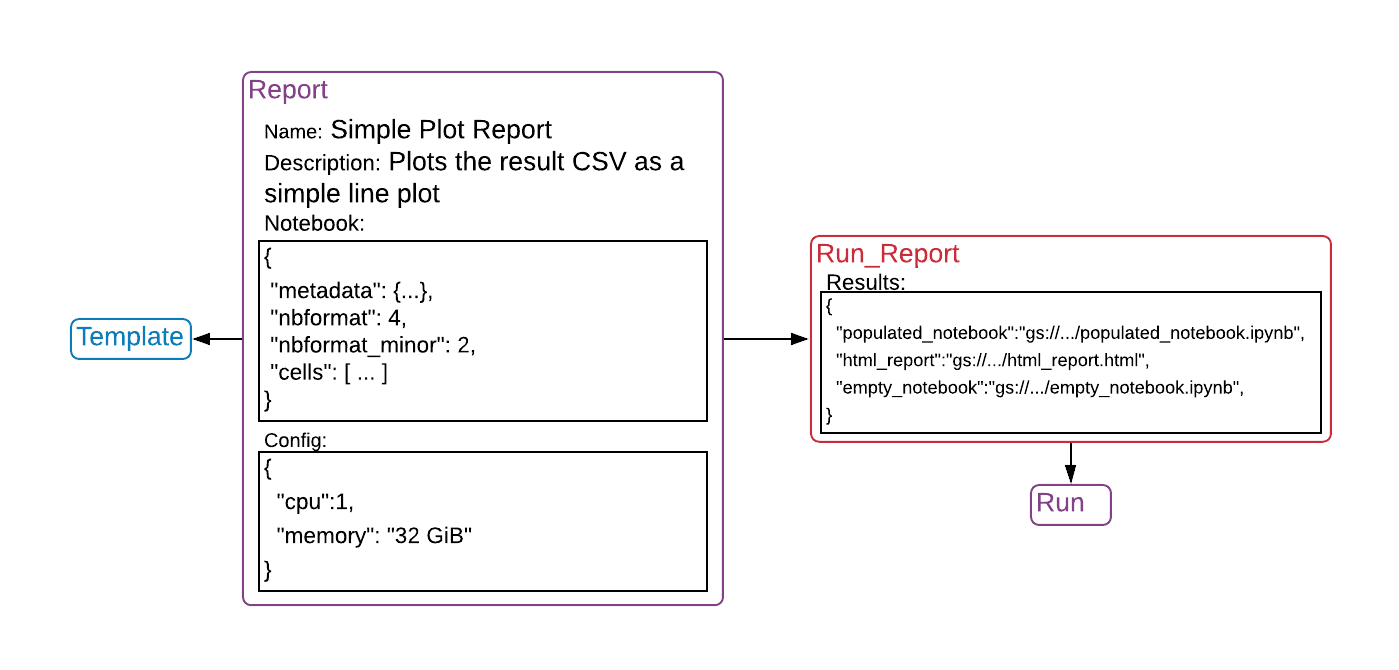
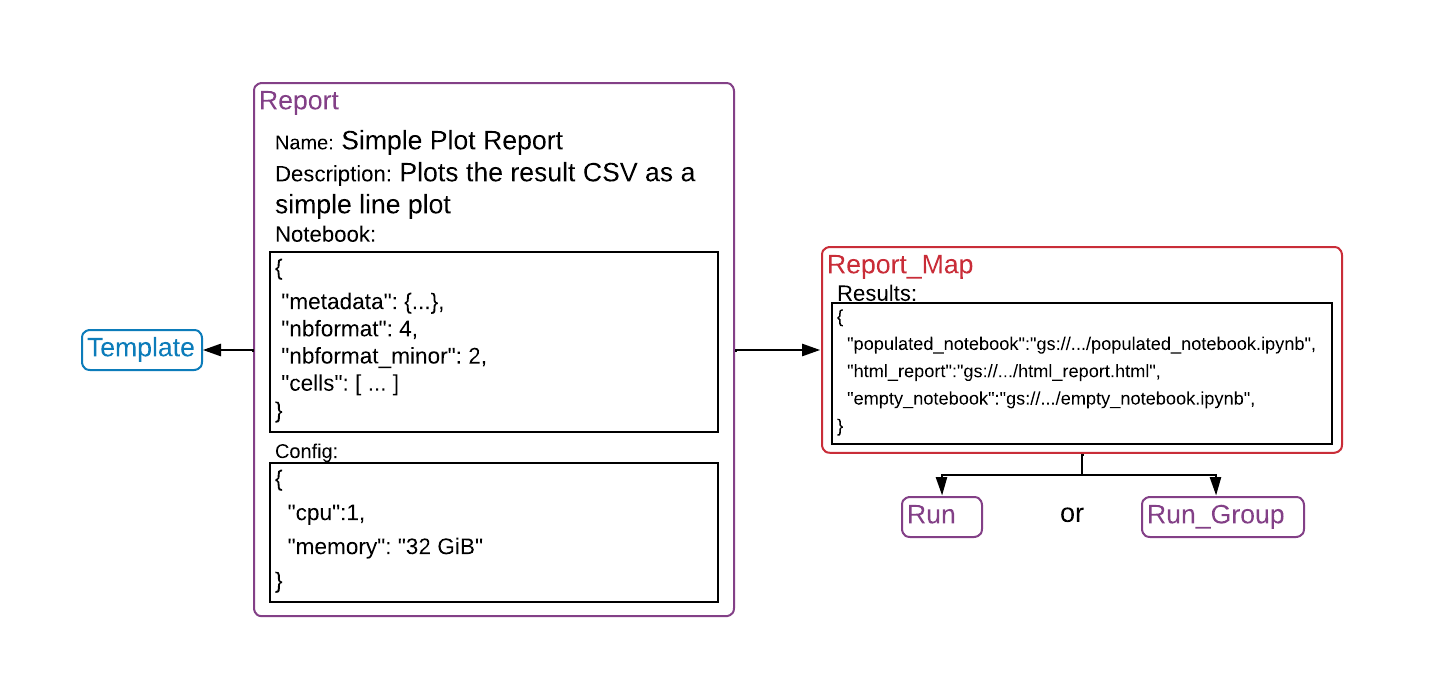
Version number and documentation updates for release 0.6.0 (#249)

Changed region(s): [[0.0307, 0.0896, 0.5225, 0.8955], [0.5533, 0.3284, 0.9528, 0.806]]

diff --git a/carrot_cli/setup.py b/carrot_cli/setup.py
@@ -4,7 +4,7 @@ from setuptools import find_packages, setup
 
 # following src dir layout according to
 # https://blog.ionelmc.ro/2014/05/25/python-packaging/#the-structure
-version = "0.5.1"
+version = "0.6.0"
 setup(
     name="carrot_cli",
     version=version,

diff --git a/carrot_cli/src/carrot_cli/__main__.py b/carrot_cli/src/carrot_cli/__main__.py
@@ -17,7 +17,7 @@ from .test import command as test
 
 # Version number is automatically set via bumpversion.
 # DO NOT MODIFY:
-__version = "0.5.1"
+__version = "0.6.0"
 
 # Create a logger for this module:
 LOGGER = logging.getLogger(__name__)

diff --git a/UserGuide.md b/UserGuide.md
@@ -5,7 +5,7 @@
 ## Cromwell Automated Runner for Regression and Optimization Testing (CARROT) User Guide
 
 
-### _v0.5.1_
+### _v0.6.0_
 
 
 ## **Table of Contents**
@@ -49,11 +49,12 @@
                 * [1c. A control block (optional)](#1c-a-control-block-optional)
                 * [1d. Using data from CARROT](#1d-using-data-from-carrot)
             * [2. Define a Report in CARROT](#2-define-a-report-in-carrot)
-            * [3. Map the Report to a Template and define the inputs](#3-map-the-report-to-a-template-and-define-the-inputs)
+            * [3. Map the Report to a Template](#3-map-the-report-to-a-template)
         * [Generating a Report](#generating-a-report)
 * [GitHub Integration](#github-integration)
     * [Adding CARROT Integration to Your GitHub Repository](#adding-carrot-integration-to-your-github-repository)
     * [Starting a Test Run from GitHub](#starting-a-test-run-from-github)
+    * [Starting a PR Comparison Run from Github](#starting-a-pr-comparison-run-from-github)
 * [Appendix](#appendix)
     * [Further Documentation / Links](#further-documentation-links)
 
@@ -69,7 +70,7 @@ This document is only applicable to the following version of CARROT:
 
 
 ```
-v0.5.1
+v0.6.0
 ```
 
 
@@ -418,11 +419,11 @@ If this occurs, you can either wait for the cache to refresh or update the templ
 
 ### <a name="defining-and-generating-reports"/> **Defining and Generating Reports**
 
-Jupyter Notebook reports can be generated from successful runs.  These reports serve as visualizations of the CARROT run results and should be created to display relevant data in a readable, straight-forward manner.  They can be generated either automatically (when a run finishes successfully) or manually.
+Jupyter Notebook reports can be generated from successful runs or [groups of runs from Github PR comparisons](#starting-a-pr-comparison-run-from-github).  These reports serve as visualizations of the CARROT run results and should be created to display relevant data in a readable, straight-forward manner.  They can be generated either automatically (when a run finishes successfully) or manually.
 
 Before a report can be generated, it must be defined by the user.
 
-![Report Structure](images/Report_Structure.png )
+![Report Structure](images/Report_Structure.png)
 
 
 
@@ -466,7 +467,7 @@ When the report is generated, CARROT will supply the data for the run(s) in a se
 If you would like to download these files to use them locally and experiment with your notebook definition before defining the Report in CARROT, you can use the `--zip_csv` option in any of the `find_runs` commands or the `run find_by_id` command in carrot_cli.  For example:
 
 ```
-carrot_cli tempalte find_runs "My cool template" --zip_csv run_data_csvs.zip
+carrot_cli template find_runs "My cool template" --zip_csv run_data_csvs.zip
 ```
 
 
@@ -491,13 +492,13 @@ The `--config <CONFIG_JSON_FILE> `flag allows you to specify (in a JSON file) a 
 The `--created_by email` flag is optional and defaults to the email address in your carrot_cli configuration file.
 
 
-##### <a name="3-map-the-report-to-a-template-and-define-the-inputs"/> **3. Map the Report to a Template and define the inputs**
+##### <a name="3-map-the-report-to-a-template"/> **3. Map the Report to a Template**
 
 A report must be mapped to a template in order for filled reports to be generated from runs of that template.  Mapping a report to a template can be done with the following command:
 
 
 ```
-carrot_cli template map_to_report [--created_by EMAIL] TEMPLATE REPORT
+carrot_cli template map_to_report [--created_by EMAIL] TEMPLATE REPORT [REPORT_TRIGGER]
 ```
 
 
@@ -507,6 +508,8 @@ The `--created_by email` flag is optional and defaults to the email address in y
 
 
 `REPORT` is the ID or name of the report you wish to map.  If you just completed step 2 and created a report, the ID of that report should have been included in the results from that command.  If not, you can find the report using `carrot_cli report find`.
+
+`REPORT_TRIGGER` is an optional argument that corresponds to the event that should trigger the generation of the report.  It defaults to `single`, which means a report will be generated upon successful completion of a single run of a test based on the template.  The other option is `pr`, which means a report will be generated upon successful completion of a [PR Comparison run](#starting-a-pr-comparison-run-from-github).
 
 
 
@@ -592,6 +595,26 @@ Once the GitHub action processes the comment and sends the message, it will be p
 
 ![Example GitHub Comment](images/Example_GitHub_Comment.png)
 
+
+### <a name="starting-a-pr-comparison-run-from-github"/> **Starting a PR Comparison Run from GitHub**
+
+There is another type of run that can be triggered in CARROT from GitHub and that is the PR Comparison Run.  A PR Comparison run triggers two runs of a test, one with a docker image generated from the head commit of the PR and one with a docker image generated from the base commit of the PR.  Triggering it is also exactly the same is triggering a single run:
+
+
+```
+#carrot_pr({test_name},  {test_docker_key}, {eval_docker_key})
+```
+
+
+where
+
+
+
+* `{test_name}` is the name of a test you’ve already defined in CARROT
+* `{test_docker_key}` is the name of an input to your *test* WDL that accepts a Docker image created from your repository
+* `{eval_docker_key}` is the name of an input to your *eval* WDL that accepts a Docker image created from your repository
+
+Once picked up by CARROT, the two runs will be triggered and a comment will be posted to GitHub.  Once the two runs have been completed, another comment with their results will be posted.  It is also possible to map a report to a template so it will trigger based on the completion of a PR Comparison run, so if one has been mapped that way, the report generation will be triggered upon successful completion of the two runs.  Successful generation of the report will prompt CARROT to post another comment to the PR with the results of the reports.
 
 ## <a name="appendix"/> **Appendix**
 

diff --git a/carrot_cli/README.md b/carrot_cli/README.md
@@ -2,7 +2,7 @@
 # carrot\_cli
 The official CLI tool for [CARROT](https://github.com/broadinstitute/carrot). This tool provides a suite of commands for interacting with the CARROT REST API.
 
-Current version: 0.5.1
+Current version: 0.6.0
 
 ## Table of Contents
 * [Installation](#installation)
